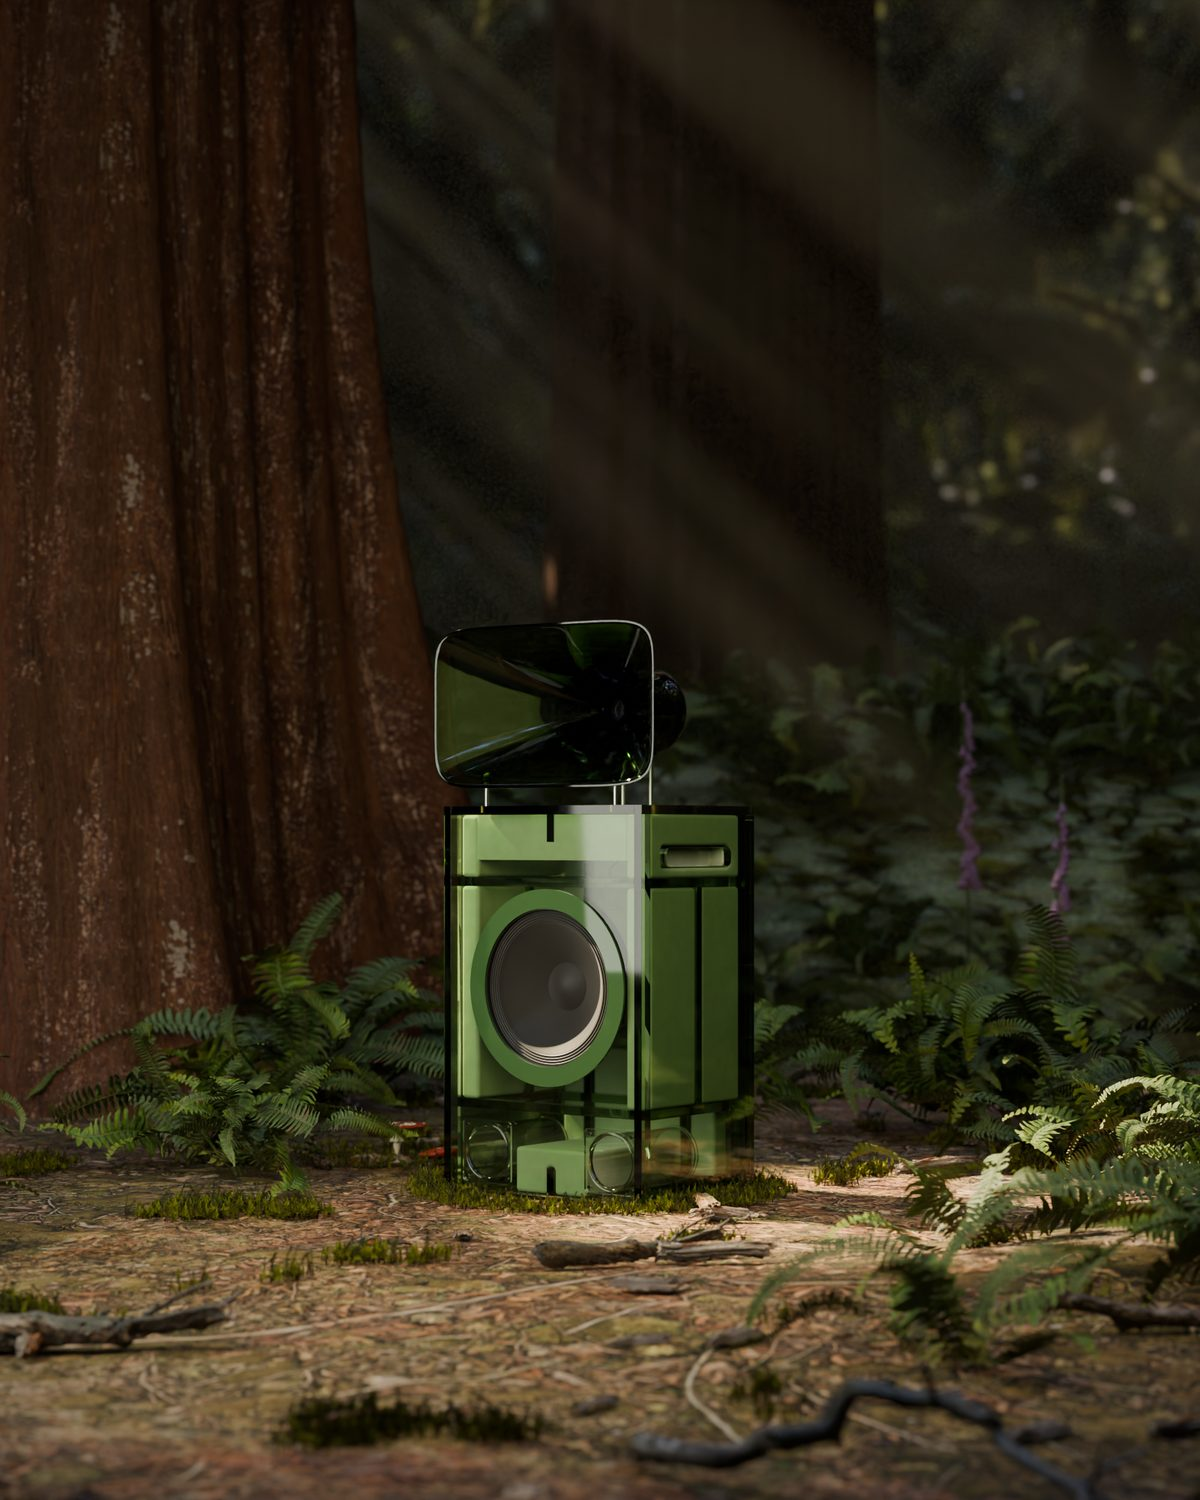
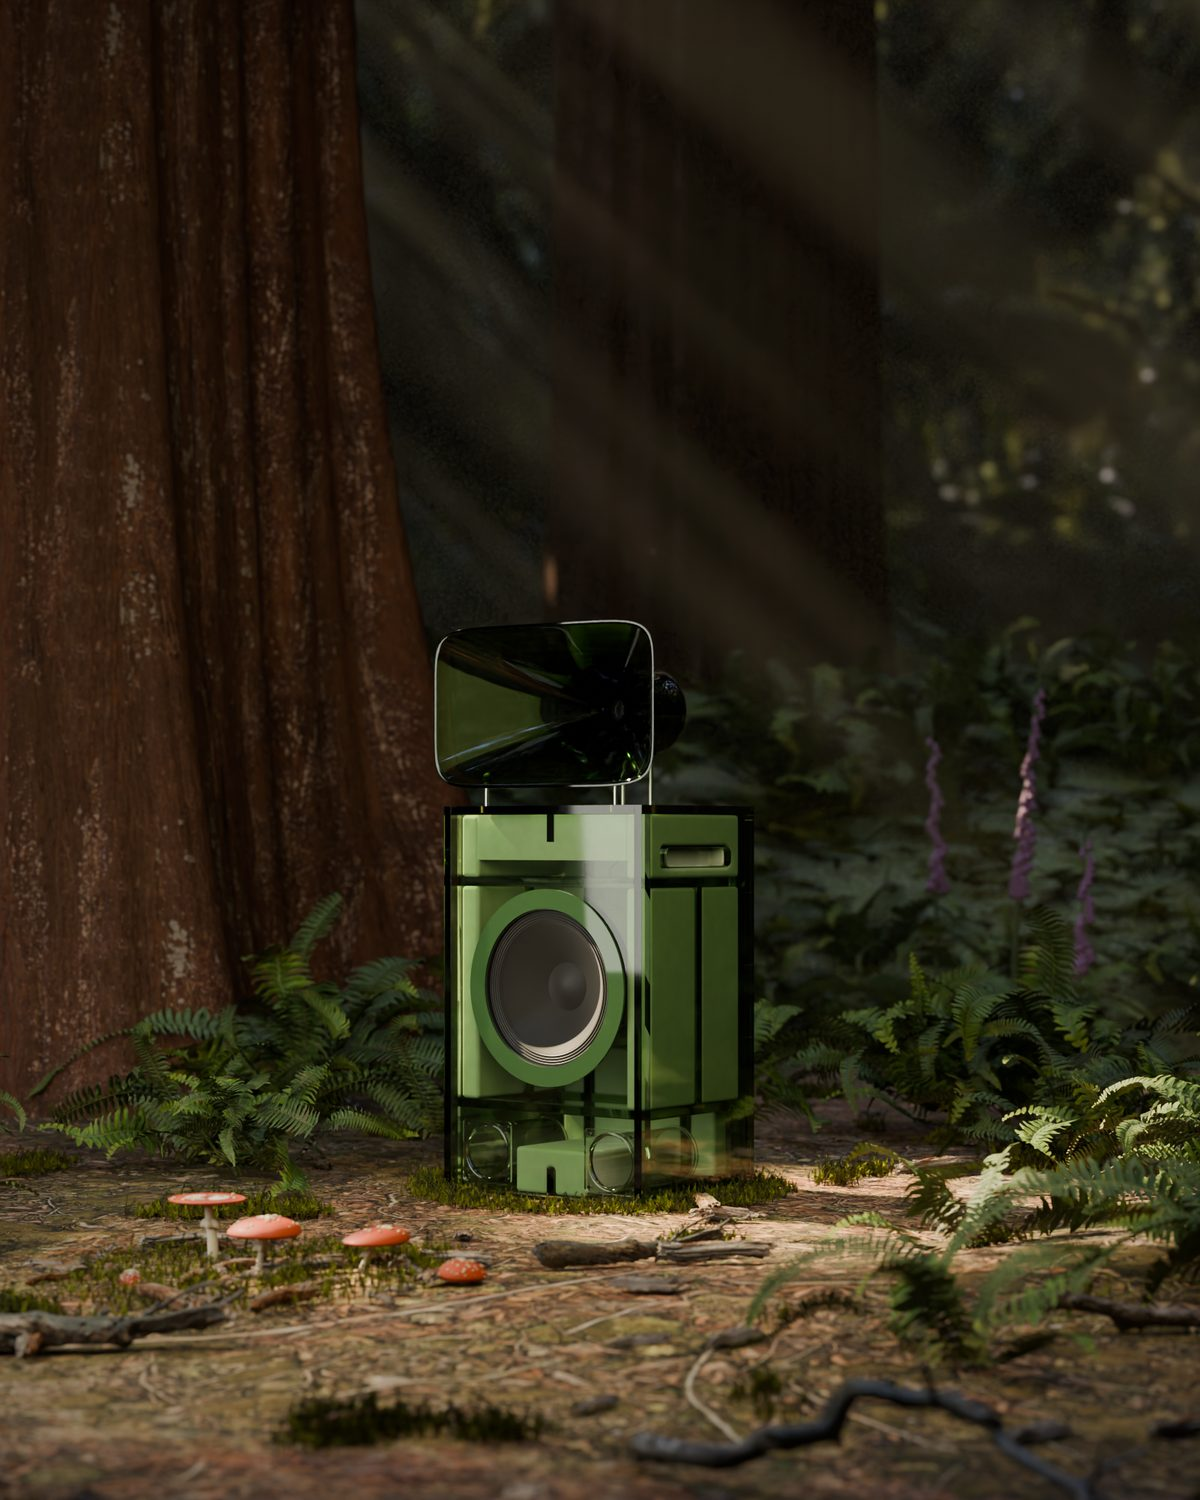
barkhorn site: Poison in its element is A4, a troop of fly agarics in the foreground
A judge told nothing names the poisons at 600 px (A3's saw only ferns); in full-size blind duels A4 is half a point
behind A3 on both frames, inside the margin for the owner's ask. The speaker page: "behind a troop of fly agarics,
among ferns and foxgloves". README: the owner-notes row, look book v52 and the Planet rounds 33 and 34; LOG: the A4 row.

Claude-Session: https://claude.ai/code/session_016Hs9fK3h2VwVeRXpa18b1z

diff --git a/spinoffs/barkhorn/site/index.html b/spinoffs/barkhorn/site/index.html
@@ -579,7 +579,7 @@ html.cursor, html.cursor * { cursor: none !important }
 </div></footer>
 
 <script>
[2 lines of base64/hex data omitted]
 const SLUG = Object.fromEntries(D.clouds.map(c => [c.name.toLowerCase(), c.k])), keyOf = w => SLUG[w] || (BY[w] ? w : null);
 const reduce = matchMedia('(prefers-reduced-motion: reduce)').matches, TAU = Math.PI * 2;
 // lit from below: scrolling picks the colour (a quarter of a screen each) and time plays the change; the coins are a

diff --git a/spinoffs/barkhorn/web.py b/spinoffs/barkhorn/web.py
@@ -59,12 +59,13 @@ ELEMENT = dict(HABITAT)       # which concept each colour shows in its element: 
 ELEMENT['violet'] = 'haze_b'  # the layered hills beat the lavender field in a blind duel, 2 to 1 (6.2 to 5.9)
 ELEMENT['amber'] = 'acid_b'   # acid rain on black lava beat the acid spring at Dallol in a blind duel, 2 to 1 (6.3 to 5.4)
 ELEMENT['ice'] = 'fog_b'      # the headland above the fog at dawn beat the summit above a sea of cloud in a blind duel, 3 to 0 (6.7 to 4.7)
-ELEMENT['green'] = 'poison_a3'  # A's redwood floor with its poisons beat A in full-size blind duels, 3 judges to 1 (+0.45, +0.1)
+ELEMENT['green'] = 'poison_a4'  # the poisons where the eye meets them: it reads as poisonous at 600 px (A3 doesn't), -0.5 against A3 at full size
 PLACES = {  # where each concept stands: the speaker page leads with it ("Ember on a lava field at blue hour.")
     'ember': 'on a lava field at blue hour, the crust cracked to its glow',
     'dust': 'on rippled sand in the Southwest at golden hour',
     'acid': 'by the acid springs of Dallol', 'acid_b': 'in acid rain on black lava',
     'poison': 'on a redwood forest floor, among ferns', 'poison_a3': 'on a redwood forest floor, among ferns, foxgloves and fly agarics',
+    'poison_a4': 'on a redwood forest floor, behind a troop of fly agarics, among ferns and foxgloves',
     'ice': 'in snow country at blue hour', 'ice_b': 'on a black-sand beach among icebergs at sunrise',
     'haze': 'in a lavender field at dusk', 'haze_b': 'before layered hills in a hazy evening light',
     'fog': 'on a summit above a sea of cloud', 'fog_b': 'on a headland above the fog at dawn',

diff --git a/spinoffs/barkhorn/README.md b/spinoffs/barkhorn/README.md
@@ -103,7 +103,7 @@ speakers lit from below and on a night facade, and each Cloud in its element, ph
 | "The Fog icon doesn't really come through on the background. The spinning globe has a square background that comes through when not on solid black or white." | **The icons and the header's globe cut out to transparent pictures** (`web.py` `cutout`): each icon from its paper and night renders, Fog's edges darkened from its night render so it reads on paper; the globe as an AVIF and WebP sheet, so it no longer needs the blend mode Safari drops inside the frosted header. |
 | "The good company section isn't completed yet. Get rid of the rug option." | **Two companions, no rug**, shown as sketches until their second designs are built (next rows). |
 | "The hero images on the product detail pages are blurred for some reason." | **Fixed**: the close-ups' blurred fill was painting over the photograph once its fade ended (a transform's stacking order); it now sits behind, and the photograph in its element never has one. |
-| "The acid rain splashes from dropping into the water are a little off for some reason." "Poison isn't reading as poisonous. Needs shrooms around it, or a snake, or both." | **Acid's rain lands as rings** in the water's surface, with small crowns only where it is deep enough, and a near layer of falling rain (blind, the new water beat the old 5.5 to 3.5). **Poison, four tries**: B (fly agarics at every age, death caps, a pit viper on a mossy stump, a dart frog, foxgloves, nightshade) read as toys and lost to A; A2 (A's floor with agarics and foxgloves) lost by half a point; **A3 is on the site**: A's light with three small, weathered agarics at the fern stand's foot and two foxgloves, and it beat A in blind duels on both frames (+0.45, +0.1). It's the better picture, but at the site's sizes its poisons only read on a close look, so A4 (agarics at true scale in a patch of light, a stand of foxgloves) is proofing, and goes up only if a judge who isn't told names them at card size. The speaker page now says where it stands: "among ferns, foxgloves and fly agarics". |
+| "The acid rain splashes from dropping into the water are a little off for some reason." "Poison isn't reading as poisonous. Needs shrooms around it, or a snake, or both." | **Acid's rain lands as rings** in the water's surface, with small crowns only where it is deep enough, and a near layer of falling rain (blind, the new water beat the old 5.5 to 3.5). **Poison, five tries**: B (fly agarics at every age, death caps, a pit viper on a mossy stump, a dart frog, foxgloves, nightshade) read as toys and lost to A; A2 (A's floor with agarics and foxgloves) lost by half a point; A3 (A's light with three small, weathered agarics at the fern stand's foot and two foxgloves) beat A in blind duels on both frames (+0.45, +0.1), but at the site's sizes its poisons only read on a close look. **A4 is on the site**: a troop of fly agarics at true scale on the open duff in the foreground, every age from a button in its veil to an old cap with its rim torn, and three foxgloves in the haze. Shown it at 600 px and told nothing, a judge names them ("small orange mushrooms in the foreground", "purple foxgloves"), where A3's judge saw only ferns. In full-size blind duels it is half a point behind A3 on both frames, inside the margin for the owner's ask; the judges' fault is the caps, the brightest thing in the frame and smooth, and a retouch of them is being tried. The speaker page says where it stands: "behind a troop of fly agarics, among ferns and foxgloves". |
 | "I'm not loving the record player and lamp. I want a squared record player similar to a debut or orbit but with a clear body and matching cover." "the brian eno one and the audio technica hotaru are acrylic I think and look really cool when backlit, but are way too expensive." "The lamp, I liked the squared on you had. Or cylindrical could be cool. I like spherical too. I also am a fan of shag lamps." | **Companions v2, blocked out for the owner's pick** (`companions/concepts2.py`, `renders/2026-10-18/barkhorn/companions2/concepts/sheet.png`): record players R1 Slab, R2 Sandwich and R3 Float; lamps L1 Lantern, L4 Cylinder, L5 Sphere, L6 Shag (the seventies fibre-optic fountain) and L7 Fringe (the literal shag: a fringe of hanging acrylic strands). |
 | "One the detail pages, what do you think about moving the icon from the left of atmosphere, so the text and left align, and making it bigger and putting it to the right of the speaker name?" | **Done**, on the speaker's page and then on the colour cards. |
 | "For fog, what if it was set in a classic foggy SF setting, overlooking the golden gate and the city from marin headlands"; then "Forget the SF fog idea. If we can't make it look like a real image of the real bridge or real sutro tower, it will look too obviously fake." | **Fog C was built and then stopped**: the Golden Gate, the city and Sutro Tower from the Marin Headlands, in proofs only. Fog keeps its headland above the fog. |
@@ -244,8 +244,8 @@ Three of the campaign critics named the speaker's own surfaces:
   The site takes each as it lands: `web.py` prefers round 31's hero, room and in-their-element pictures once they are in the repository, with their phone frames below 700 px. The home page shows all eight in a strip.
 - **The speaker's page, after the owner's note** ("I want the landscape photos to be the hero for each speaker ... Then users can paginate through all of the other images the way they would shopping online for a product"). Each speaker's page now opens on its photograph in its element (its phone frame on phones), captioned with where it stands, and pages through the rest as a shop does: arrows, a count, a swipe, the arrow keys and a strip of thumbnails. The stage keeps the photograph's shape (3:2, and 4:5 on phones), and every other picture is carried to its edges on its own ground, so the tall product shots stand in a seamless field rather than a box.
 - **Render helpers.** A final takes two to three hours on one session's four cores, so the slow ones are split. A helper session renders the frames it is given from the set's own commit, pushes them to its own branch, and stops: the portraits of Ice, Ember, Fog, Smoke and the room, the hero's phone frame, the studio's queue across five more, one strip of Ember's landscape (rendered in four strips on two boxes, stitched, then finished once), and one box for each catalogue colour and each pair of uplit frames. Twelve of them, started at 13:45, never ran: the commits they were given had not reached GitHub when they were made. They were found and started again at 15:55, from full commit names.
-- **The look book** (version 50): a page for each colour in its element, Cumulus and Bell, the round-31 room with its bars measured again (the sideboard 560 mm), and the red Cloud's name, Ember, wherever Flare was left. The Bark and Crag pages, set aside since round 17, are hidden rather than shown last. Version 51 swaps in Haze's re-render and Fog's headland.
-- **Planet EARF** (round 32), the owner's acrylic listening bar in San Francisco, has begun in its own session on the `r32-planet` branch, where the brief and its sourced research are in `planet/`.
+- **The look book** (version 50): a page for each colour in its element, Cumulus and Bell, the round-31 room with its bars measured again (the sideboard 560 mm), and the red Cloud's name, Ember, wherever Flare was left. The Bark and Crag pages, set aside since round 17, are hidden rather than shown last. Version 51 swaps in Haze's re-render and Fog's headland. Version 52 carries the new drivers: the eight colour pages (their fronts cut 1:2 from the catalogue's 4:5 frames, as the site's cards, each page's paper sampled again from its photograph), the eight pages in their element (Poison's now A3) and the horn from the side and from behind.
+- **Planet EARF** (round 32), the owner's acrylic listening bar in San Francisco, has begun in its own session on the `r32-planet` branch, where the brief and its sourced research are in `planet/`. After the owner's note of 2026-10-19 ("The bar is a little too sterile and open, and that much space in SF is unlikely. It's gotta be cozier, including cozier, warmer lighting. I also don't love the overt rainbow coloring. It's too Castro for SF.") it is being drawn again as a den (round 33): a 20 ft frontage, one long, narrow room with a 1.5 m aisle, warm practical light at about 3000 K, and one colour of speaker to a frame. The owner's second note ("I still want a lot of acrylic features, just not rainbow everywhere. The brick is unlikely to happen in SF ... Cement walls ... wall screens behind large acrylic panels ... suggestive hands pressed up against fogged glass, the fogged silhouette of a woman dancing, alien/foreign objects like the movie Arrival ... lots of cement, some wood beams and features, and steel/iron features ... Dimly lit too, but not to the point that it's hard to see") makes round 34: board-formed concrete, Douglas fir beams and blackened steel, no brick; acrylic in the line's clear, frosted and smoked tints only, thick and edge-polished; screens behind large frosted panels in the concrete showing those images; dim but legible; and a critic and material set made for intimate interiors.
 
 ### The site's deployments
 

diff --git a/critic/LOG.md b/critic/LOG.md
@@ -658,6 +658,7 @@ its finals from the best rig, and put them to a blind duel against the runner-up
 | Poison | A: a redwood rainforest | 5.5, 5.5, 4.5, 5.0, 5.5, 5.0, 6.0, 5.8, 5.5 | 6.5 | p7, 6.5 | the horn crushed against the ferns; the trunk flat; toy-like agarics |
 | Poison | A2: made poisonous (the owner: "Poison isn't reading as poisonous"): A's set, light and camera, with fly agarics and foxgloves further back; the sun disc 0.6 to 2 degrees to soften the horn's shadow on the woofer ring | 5.5, 6.0 | 6.2 and 6.0 (landscape), 6.0 (phone) | lost to A on every judge, landscape 6.2 to 6.8 and 6.0 to 6.5, phone 6.0 to 6.5 twice (A2 0.55 and 0.5 behind: A stays) | the agarics toy-like CG, the reddest thing in the frame; the foxgloves strings of pink beads; the 2-degree sun blurred A's light shafts; its one win the fuller ferns at the trunk; a hard shadow band across the woofer bay caps both. A3 (sun back to 0.6, fewer duller agarics, real foxglove bells) proofing |
 | Poison | A3: A's floor with its poisons, quietly (the owner's ask again): A's sun kept at 0.6 degrees, the woofer bay filled with A's bounce, three small dull agarics in shade at the fern stand's foot, two foxgloves with real bells in the haze | 6.1 (the proof duel, against A's 6.35) | 6.4 and 6.6 (landscape), 7.0 and 6.2 (phone) | over A on both frames, three judges of four (landscape 6.5 to 6.05, phone 6.6 to 6.5): up | the brighter cabinet won it; the agarics too saturated by the cabinet's foot (toy-like to two judges); one judge saw the foxgloves as wobbly CG stalks; at the site's sizes (1200, 600 and 640 px) the poisons are a few pixels, so the frame is better but still doesn't read as poisonous at a glance |
+| Poison | A4: the poisons where the eye meets them (the owner's ask a third time): A3's rig, with a troop of fly agarics at true scale on the open duff at the foreground's left, in a dapple of their own and at every age, and three foxgloves at uneven heights in the haze, the tallest in a narrow shaft; a read test added (one sentence at 600 px from a judge told nothing: A3 fails it, every A4 proof passes) | proof duels against A3: −0.55, −0.5, −0.35 (p1, p3, p4) | 6.0 and 6.0 (landscape), 6.5 and 6.0 (phone) | A3 preferred by all four judges, A4 −0.5 on both frames (landscape 6.0 to 6.5, phone 6.25 to 6.75): an owner ask inside the half-point margin, so up | the caps the most saturated thing in the frame, smooth CG props that pull the eye; three judges found the foxgloves too many or too bright for the horn's height; the hot reflection down the clear front corner over the woofer's right edge (in A3 too); a retouch of the caps and that streak, post only, is being tried against both |
 | Ice | A: snow country at blue hour | 5.5, 6.0, 6.5, 6.5, 6.0, 5.5, 7.0, 6.5, 7.0 | 7.0 | over B, 2 to 1 (6.5 to 5.8) | the base sunk in the drift; a dark patch beside it (fixed); a flat blue grade |
 | Ice | B: Diamond Beach at sunrise | 5.5, 5.5, 5.5, 5.0, 5.5, 5.5, 5.5 | 5.8 | beach over cave, 6.0 to 4.5 | backlit to dark navy; the throat crushed with green fringes; the wet sand a mirror |
 | Haze | A: a lavender field at dusk | 5.5, 6.0, 6.0, 6.0, 5.5, 5.5, 6.0, 5.5 | 6.0 | sunset over afterglow, 6.0 to 5.0; lost to B, 1 to 2 (5.9 to 6.2) | the throat dark; the ground crushed at dusk; the lavender one height; in the duel, the horn blown to pale pink by the sun behind it |
